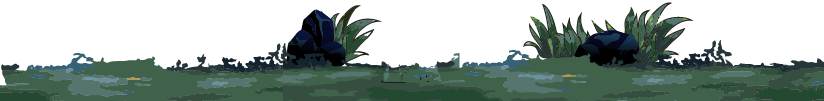
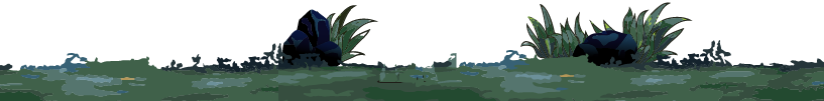
update sizing fix

diff --git a/Javascript/parralax.js b/Javascript/parralax.js
@@ -3,13 +3,14 @@ document.addEventListener('DOMContentLoaded', function() {
     const cty = canvas.getContext('2d');
 
     const images = [
-        { id: 'TheTreeBehind2', speed: 0.5, y: 0, width: window.innerWidth, height: 600 },
-        { id: 'TheTreeBehind1', speed: 1, y: 20, width: window.innerWidth, height: 600 },
-        { id: 'HugeTree', speed: 1.5, y: 0, width: window.innerWidth, height: 600 },
-        { id: 'Grass', speed: 2, y: 160, width: window.innerWidth, height: 100 },
-        { id: 'Ground', speed: 2.5, y: 160, width: window.innerWidth, height: 100 }
+        { id: 'TheTreeBehind2', speed: 0.5, y: 0, width: window.innerWidth, height: 650 },
+        { id: 'TheTreeBehind1', speed: 1, y: 0, width: window.innerWidth, height: 650 },
+        { id: 'HugeTree', speed: 1.5, y: -30, width: window.innerWidth, height: 650 },
+        { id: 'Grass', speed: 2, y: 420, width: window.innerWidth, height: 200 },
+        { id: 'Ground', speed: 2.5, y: 400, width: window.innerWidth, height: 500 }
     ];    
 
+    
     class Layer {
         constructor(image, movSpeed, y_Position, width, height) {
             this.image = image;

diff --git a/Javascript/objecten.js b/Javascript/objecten.js
@@ -10,8 +10,8 @@ let game = {
     fps: 60,
     interval: undefined,
     blobvis: 0,
-    numSprites: 20,
-    maxSprites: 120,
+    numSprites: 0,
+    maxSprites: 0,
     
     // Other game properties and methods...
 
